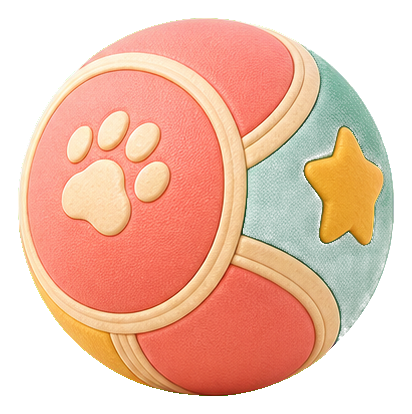
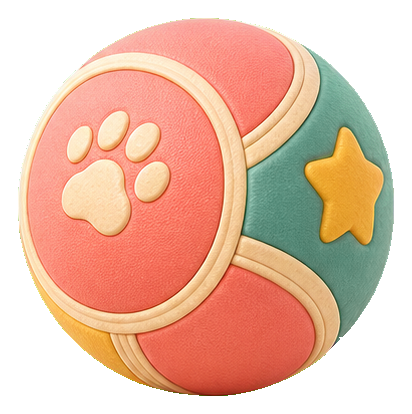
Make sky meadow ball and basket opaque

Changed region(s): [[0.5825, 0.1739, 0.9612, 0.8116], [0.7573, 0.1159, 0.7864, 0.1739]]

diff --git a/mathgame/script.js b/mathgame/script.js
@@ -139,9 +139,9 @@ const ASSETS = {
   kitchenSink: "assets/gpt-kitchen-sink.png?v=20260616-kitchen-sink",
   kitchenSinkOn: "assets/gpt-kitchen-sink-on.png?v=20260616-kitchen-sink",
   yardBench: "assets/gpt-yard-bench.png",
-  yardBall: "assets/gpt-yard-ball.png",
+  yardBall: "assets/gpt-yard-ball.png?v=20260702-yard-opacity",
   yardToys: "assets/gpt-yard-toys.png",
-  yardBasket: "assets/gpt-yard-basket.png",
+  yardBasket: "assets/gpt-yard-basket.png?v=20260702-yard-opacity",
   yardPiggyCarToy: "assets/gpt-yard-piggy-car-toy.png",
   waterfallLog: "assets/gpt-waterfall-log.png",
   waterfallLantern: "assets/gpt-waterfall-lantern.png",
@@ -4471,7 +4471,7 @@ function offlineGameAssets() {
     "./",
     "./index.html",
     "./styles.css?v=20260620-decor-scroll",
-    "./script.js?v=20260701-dog-assets",
+    "./script.js?v=20260702-yard-opacity",
     "./workbook-questions.js?v=20260618-answer-integrity",
     ...Object.values(ASSETS),
   ];

diff --git a/mathgame/sw.js b/mathgame/sw.js
@@ -1,9 +1,9 @@
-const CACHE_NAME = "math-pet-offline-20260701-dog-assets";
+const CACHE_NAME = "math-pet-offline-20260702-yard-opacity";
 const APP_SHELL = [
   "./",
   "./index.html",
   "./styles.css?v=20260620-decor-scroll",
-  "./script.js?v=20260701-dog-assets",
+  "./script.js?v=20260702-yard-opacity",
   "./workbook-questions.js?v=20260618-answer-integrity",
 ];
 

diff --git a/mathgame/index.html b/mathgame/index.html
@@ -200,7 +200,7 @@
       </div>
     </section>
 
-    <script src="script.js?v=20260701-dog-assets"></script>
+    <script src="script.js?v=20260702-yard-opacity"></script>
     <script src="workbook-questions.js?v=20260618-answer-integrity"></script>
   </body>
 </html>

diff --git a/mathgame/tools/solidify_yard_assets.py b/mathgame/tools/solidify_yard_assets.py
@@ -1,0 +1,95 @@
+#!/usr/bin/env python3
+"""Make selected yard decor visibly opaque while keeping the outer cutout.
+
+The sky meadow ball and basket were sliced from a keyed atlas with partially
+transparent interior pixels. This fills the whole visible silhouette to alpha
+255, while leaving only the background connected to the canvas edge transparent.
+"""
+
+from __future__ import annotations
+
+from pathlib import Path
+
+from PIL import Image
+
+
+ROOT = Path(__file__).resolve().parents[1]
+ASSETS = ROOT / "assets"
+TARGETS = ("gpt-yard-ball.png", "gpt-yard-basket.png")
+TRANSPARENT_THRESHOLD = 8
+
+
+def exterior_background(alpha: bytes, width: int, height: int) -> bytearray:
+    exterior = bytearray(width * height)
+    stack: list[int] = []
+
+    def seed(index: int) -> None:
+        if exterior[index] or alpha[index] > TRANSPARENT_THRESHOLD:
+            return
+        exterior[index] = 1
+        stack.append(index)
+
+    for x in range(width):
+        seed(x)
+        seed((height - 1) * width + x)
+    for y in range(height):
+        seed(y * width)
+        seed(y * width + width - 1)
+
+    while stack:
+        index = stack.pop()
+        x = index % width
+        y = index // width
+        if x > 0:
+            neighbor = index - 1
+            if not exterior[neighbor] and alpha[neighbor] <= TRANSPARENT_THRESHOLD:
+                exterior[neighbor] = 1
+                stack.append(neighbor)
+        if x < width - 1:
+            neighbor = index + 1
+            if not exterior[neighbor] and alpha[neighbor] <= TRANSPARENT_THRESHOLD:
+                exterior[neighbor] = 1
+                stack.append(neighbor)
+        if y > 0:
+            neighbor = index - width
+            if not exterior[neighbor] and alpha[neighbor] <= TRANSPARENT_THRESHOLD:
+                exterior[neighbor] = 1
+                stack.append(neighbor)
+        if y < height - 1:
+            neighbor = index + width
+            if not exterior[neighbor] and alpha[neighbor] <= TRANSPARENT_THRESHOLD:
+                exterior[neighbor] = 1
+                stack.append(neighbor)
+
+    return exterior
+
+
+def solidify(path: Path) -> None:
+    image = Image.open(path).convert("RGBA")
+    width, height = image.size
+    pixels = bytearray(image.tobytes())
+    alpha = bytes(pixels[3::4])
+    exterior = exterior_background(alpha, width, height)
+
+    opaque = 0
+    transparent = 0
+    for index, is_exterior in enumerate(exterior):
+        alpha_offset = index * 4 + 3
+        if is_exterior:
+            pixels[alpha_offset] = 0
+            transparent += 1
+        else:
+            pixels[alpha_offset] = 255
+            opaque += 1
+
+    Image.frombytes("RGBA", (width, height), bytes(pixels)).save(path)
+    print(f"{path.name}\topaque={opaque}\ttransparent={transparent}")
+
+
+def main() -> None:
+    for name in TARGETS:
+        solidify(ASSETS / name)
+
+
+if __name__ == "__main__":
+    main()
